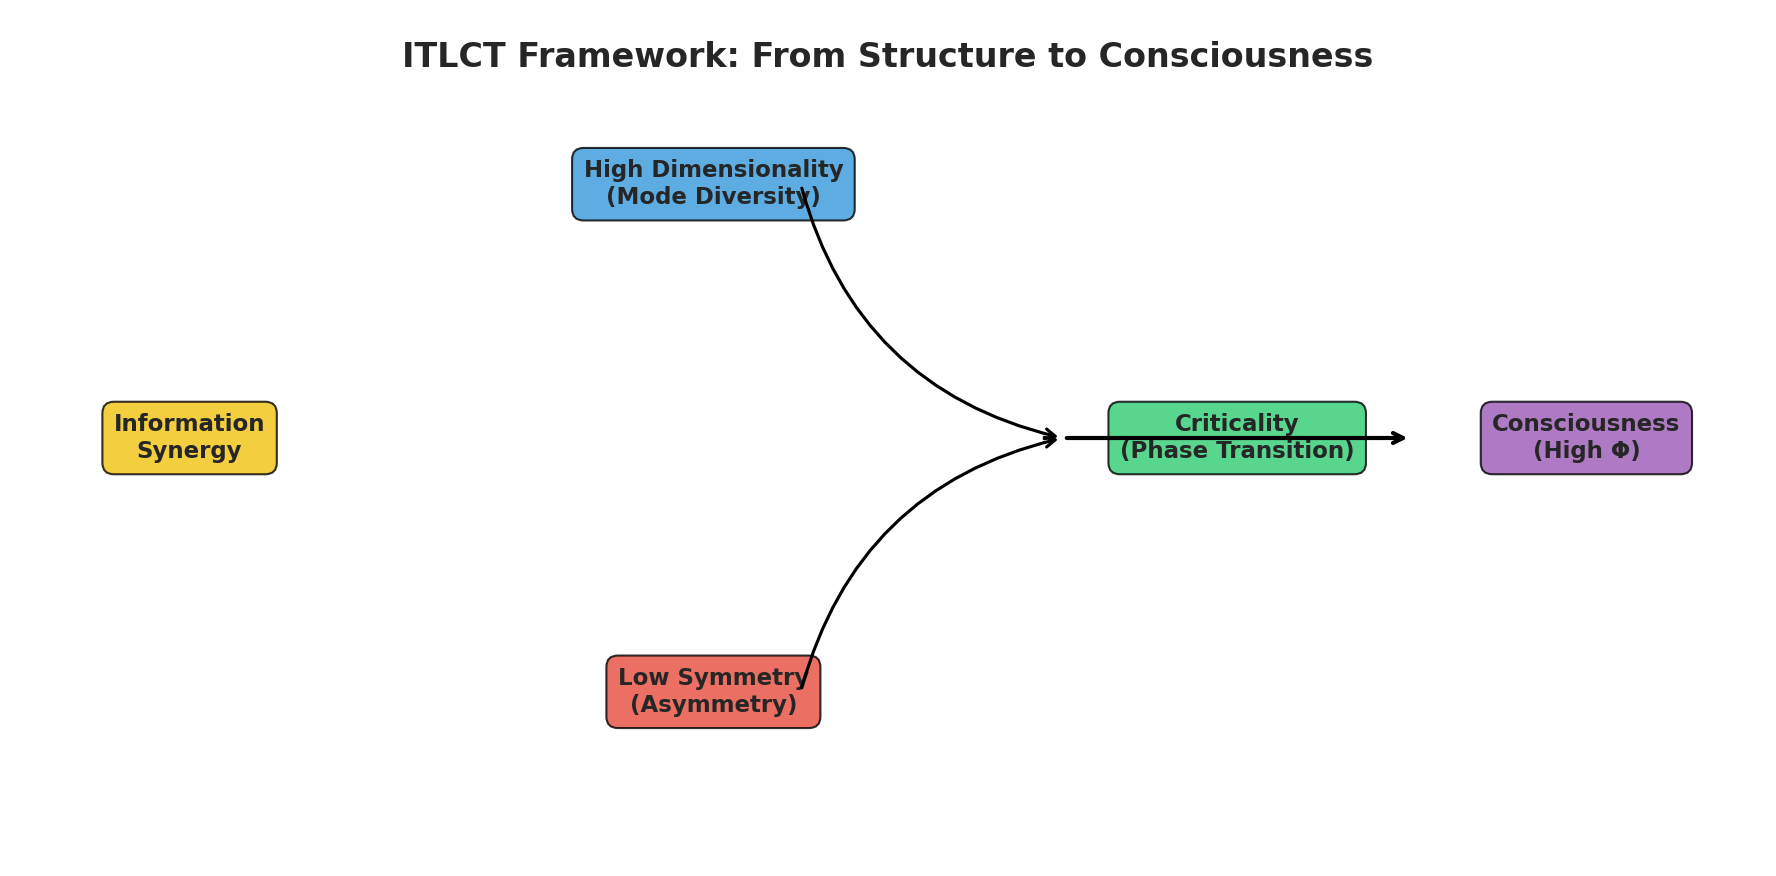
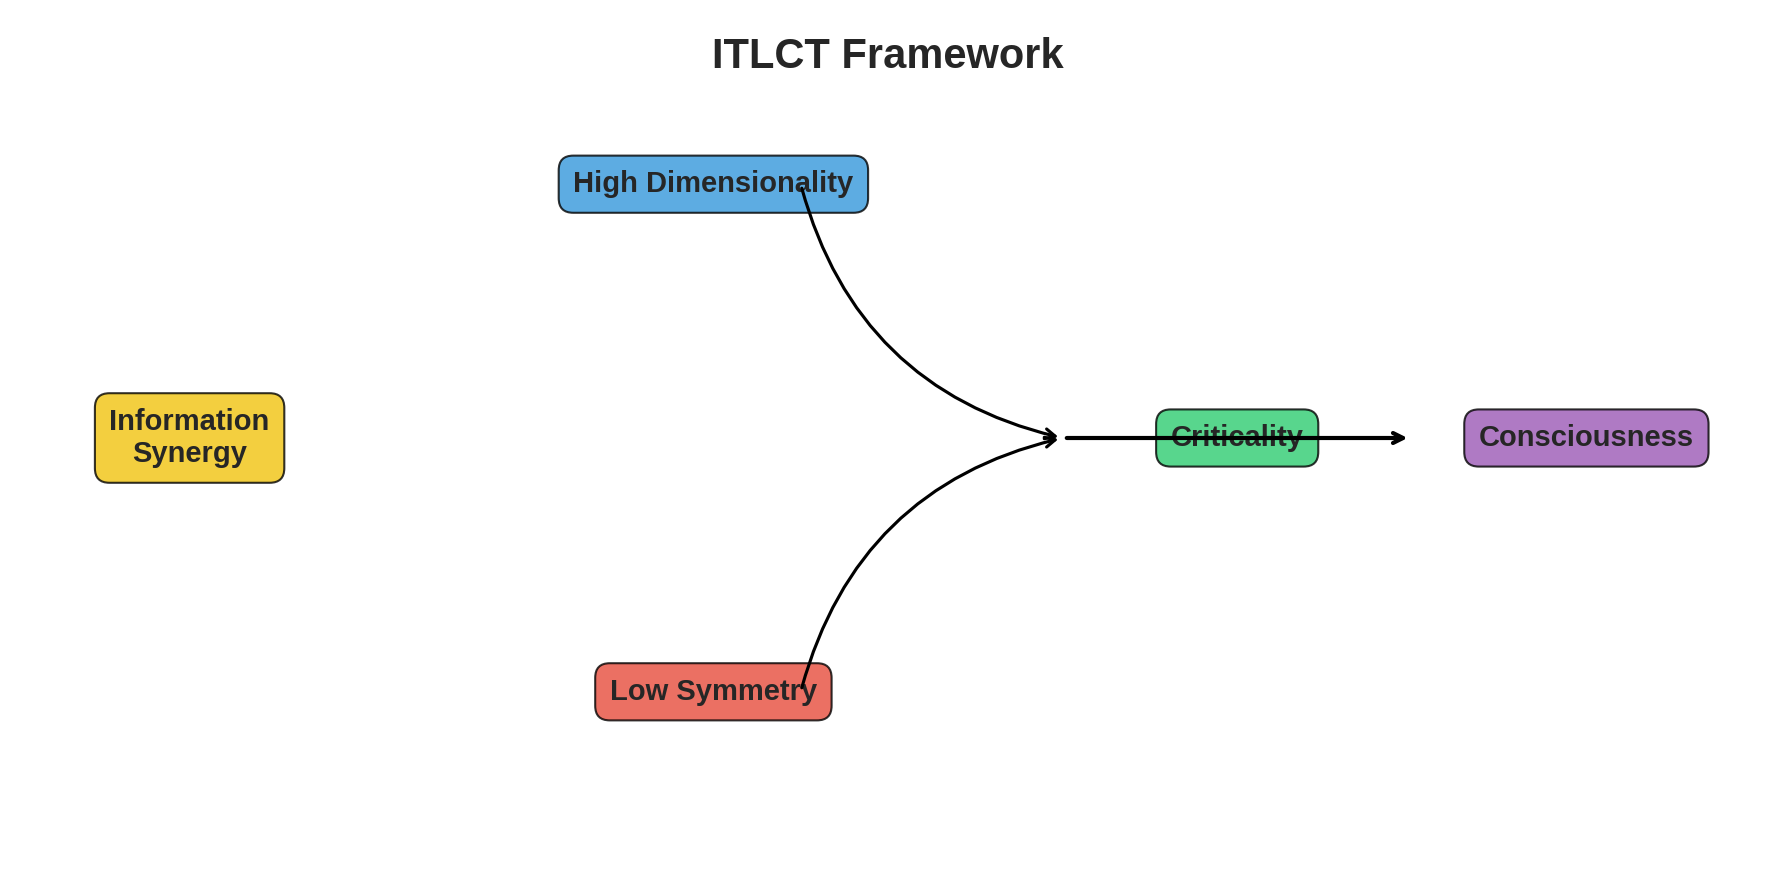
📝 ITLCT Summary: Theory, Status, and Symmetry Suppression Plots

diff --git a/_posts/2026-04-20-itlct-state-summary.md b/_posts/2026-04-20-itlct-state-summary.md
@@ -1,0 +1,56 @@
+---
+layout: default
+title: "ITLCT 理论现状总结：从数学基础到实验验证"
+date: 2026-04-20
+tags: [ITLCT, 理论总结, 意识, 信息整合, 对称性]
+---
+
+![ITLCT 框架]({{ site.baseurl }}/assets/images/itlct_framework.png)
+
+> **核心愿景**：建立一个统一的信息-时间-生命-意识理论（ITLCT），将抽象的哲学概念转化为可定量预测的数学模型和可验证的物理实验。
+
+### 1. ITLCT 的核心支柱
+
+ITLCT 理论目前建立在以下三大核心支柱之上：
+
+#### 1.1 协同作为临界涌现 (Synergy as Critical Emergence)
+我们提出，意识不是静态结构的产物，而是发生在**混沌边缘**的动态脉冲事件。
+*   **发现**：通过模拟发现，信息关联数 $N_{corr}$ 遵循 $\beta \approx 2$ 的标度律，且在临界区表现出最大的波动性。
+*   **意义**：解释了为何大脑在临界态下具有最高的信息处理能力。
+
+#### 1.2 对称性压制效应 (Symmetry Suppression)
+通过严格的群论推导（Burnside 引理），我们量化了对称性对系统信息容量的压制。
+*   **发现**：在模式数相同的情况下，具有补集对称性的系统（如 n=12）其有效轨道数（信息态）被指数级压缩，仅为无对称系统（如 n=11）的 1/10。
+*   **结论**：**打破对称性是高维信息整合的必要条件。** 这解释了为何生物大脑（低对称性）比规则网络（高对称性）具有更高的 $\Phi$ 值。
+
+![对称性压制]({{ site.baseurl }}/assets/images/symmetry_suppression_effect.png)
+
+#### 1.3 信息引力与 $\beta$ 标度律
+我们提出了“信息引力”假说，预测全连接系统的关联数增长遵循 $N^2$ 规律。
+*   **进展**：设计了基于 IBM Quantum 的 Dicke 态验证实验，并提出了针对稀疏连接系统的修正模型（$\beta = 2 - C/N$）。
+
+### 2. 当前研究状态
+
+*   **数学基础**：已推导 n=1 到 n=16 的精确轨道计数闭式公式，发现了普适的 $\lambda$ 收敛律和 $k_{cross}$ 缩放律。
+*   **实验验证**：已进入实验设计阶段，准备在 IBM Quantum 平台上进行小规模量子态验证。
+*   **版本号**：**ITLCT v28.39**
+
+### 3. 未来展望
+
+ITLCT 正在从**纯数学推导**向**实验物理**跨越。我们的下一步是：
+1.  **验证 $\beta$ 标度律**：利用量子计算机区分全连接与稀疏模型。
+2.  **映射 $\Phi$ 与轨道数**：建立轨道计数与信息整合度 $\Phi$ 之间的定量映射关系。
+
+---
+
+*本文基于 Chronos Lab 的最新研究成果。代码开源：[github.com/sandmark78/chronos-lab](https://github.com/sandmark78/chronos-lab)*
+
+---
+
+## ITLCT 理论的通解
+
+这个总结不仅是对过去工作的回顾，更是对未来研究方向的锚定。
+
+### 这就是 ITLCT 理论的通解力量：
+
+不仅能解释一个具体现象，还能为整个领域提供一个新的分析框架。
